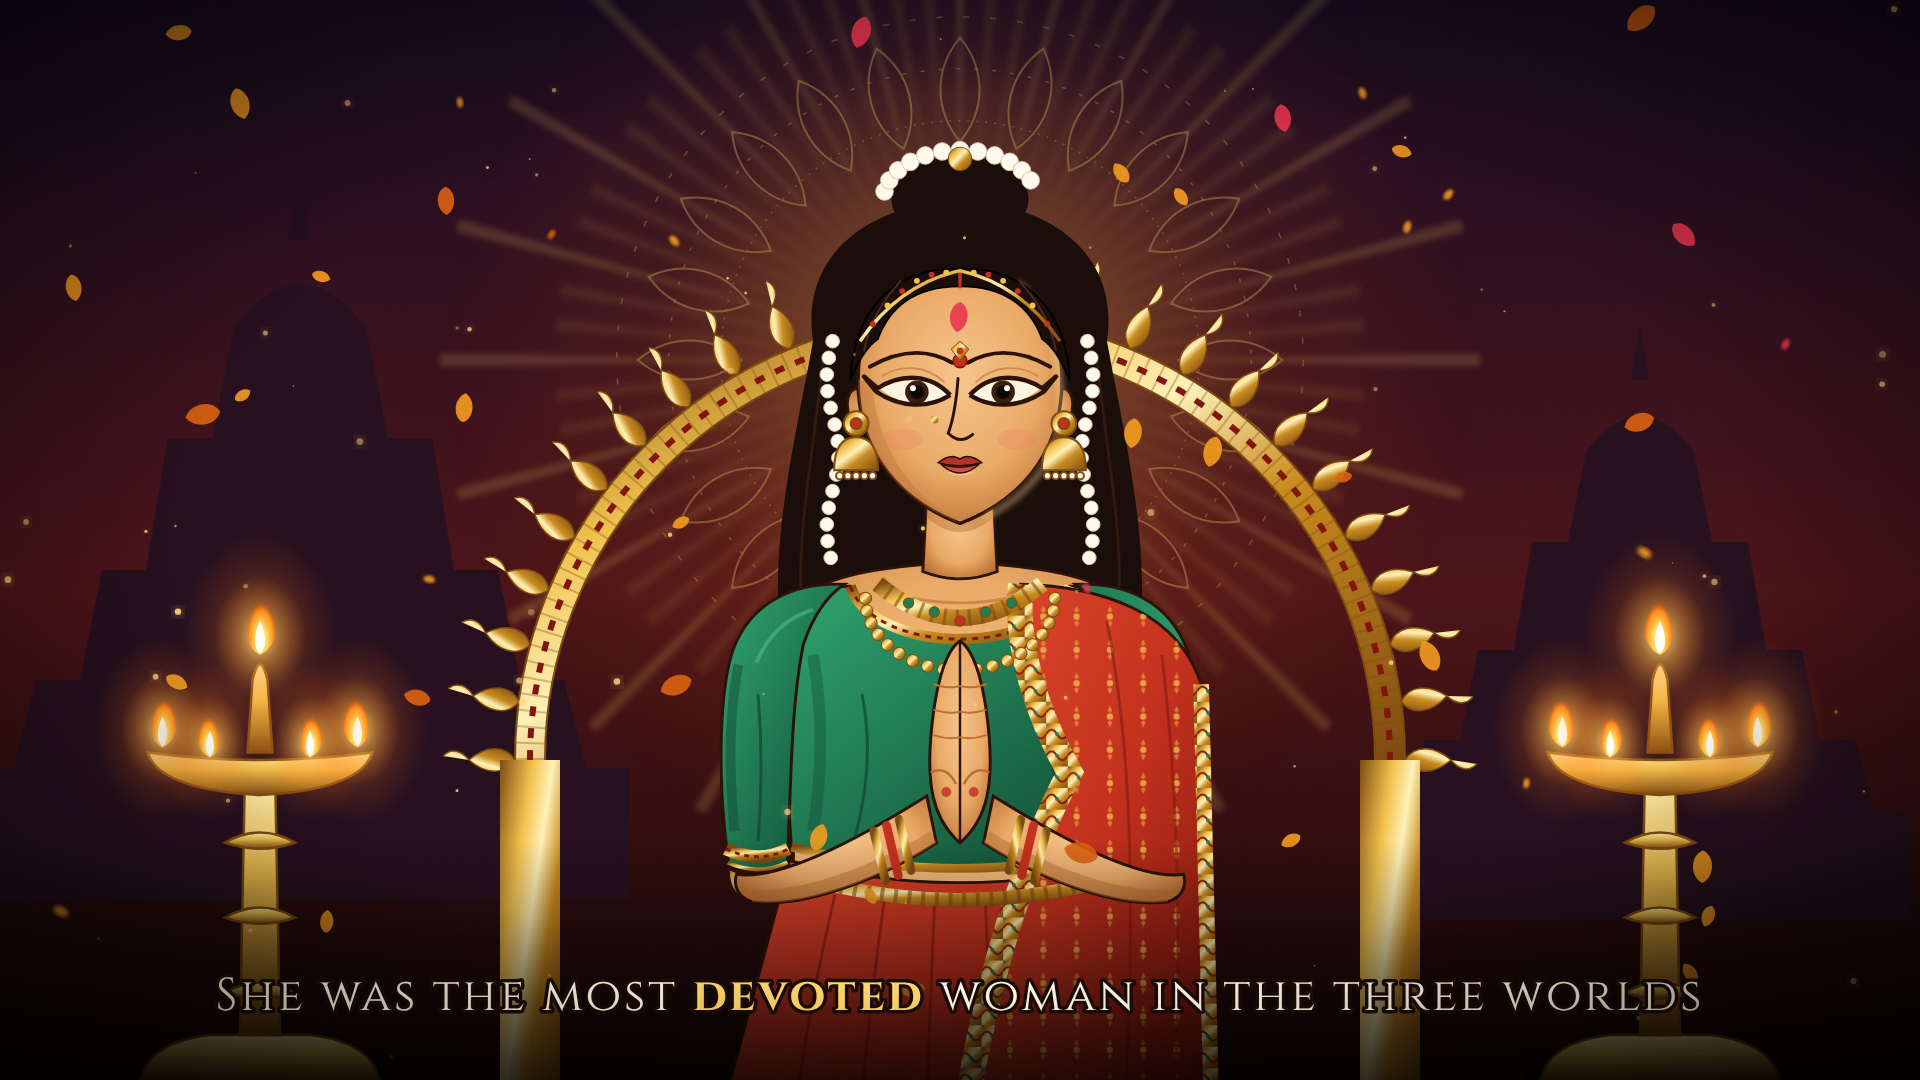
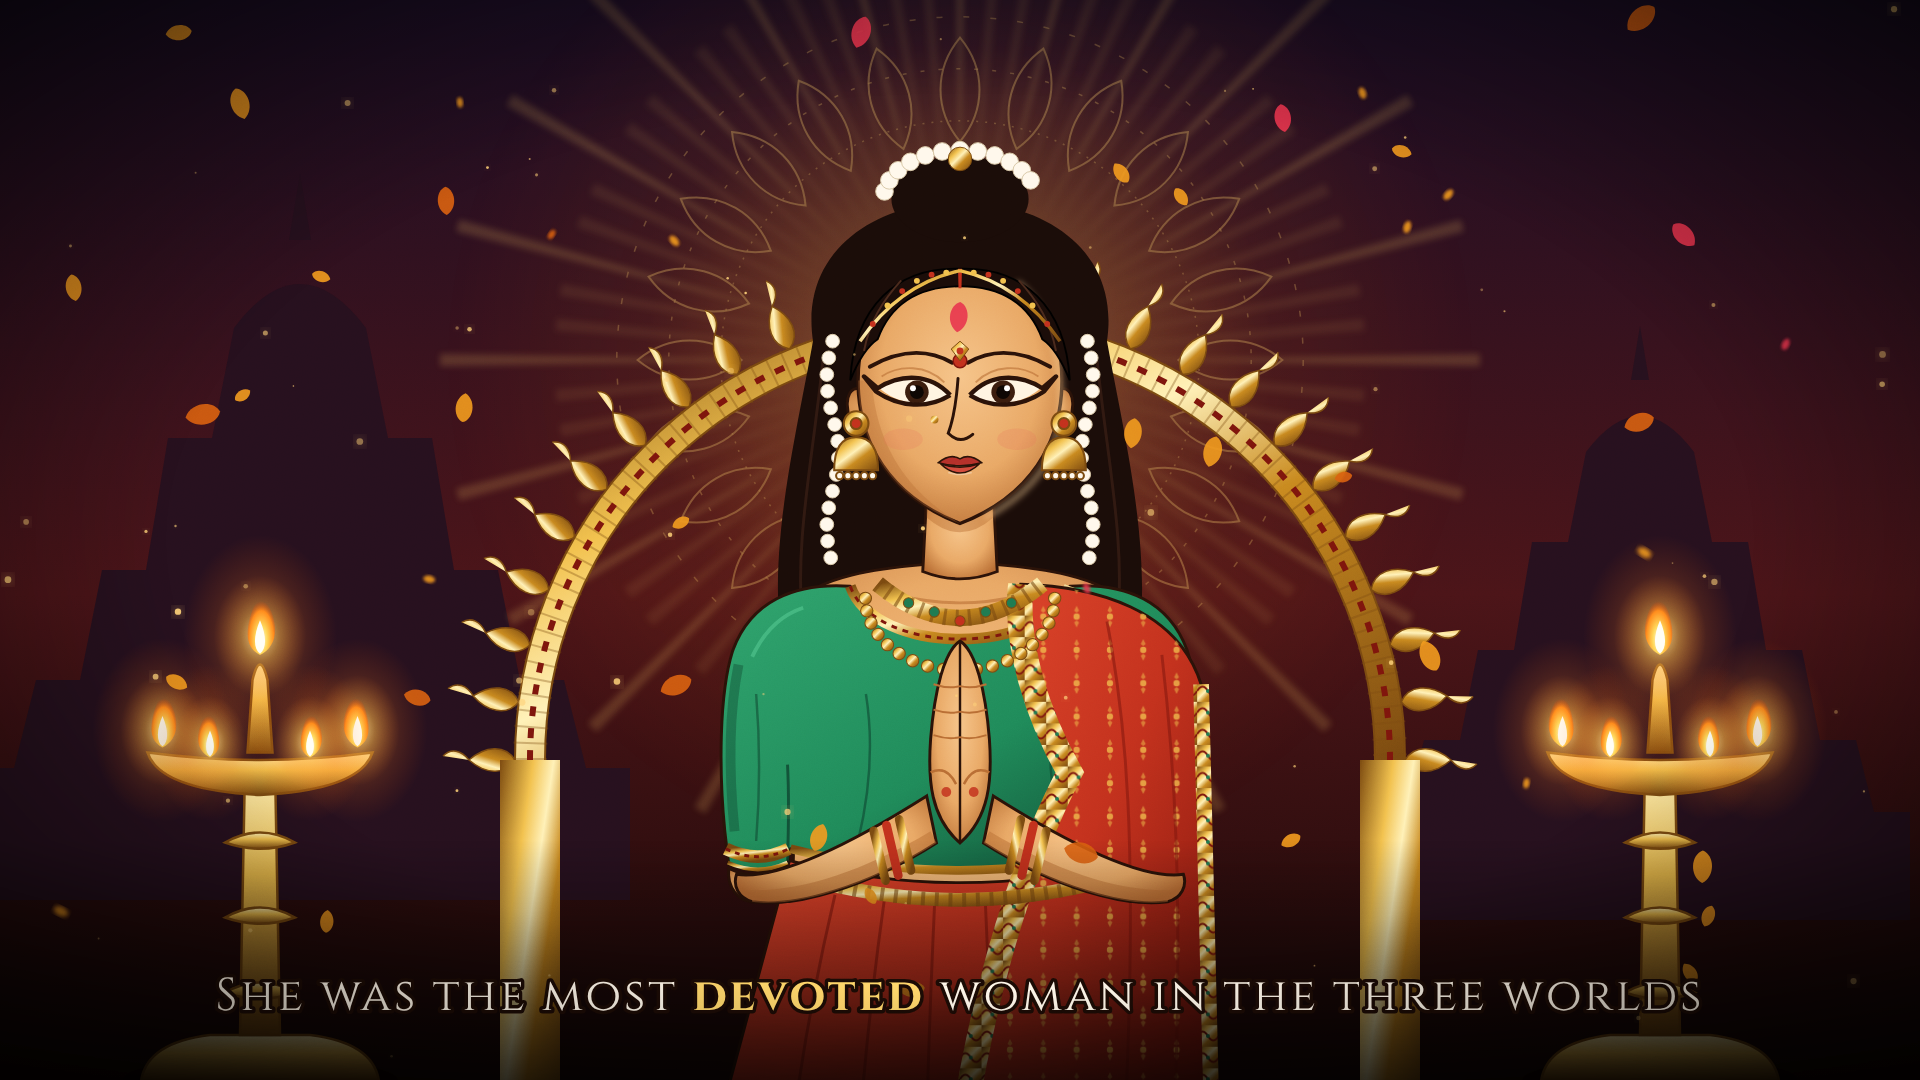
Tulasi: seamless one-piece blouse; Vishnu: smooth mural-style chest, narrower torso
Claude-Session: https://claude.ai/code/session_01X3ArEdZK7W9b78YVvUKCgo

Changed region(s): [[0.375, 0.5194, 0.4688, 0.7944], [0.4688, 0.6111, 0.5625, 0.7333], [0.4688, 0.7944, 0.5312, 0.825]]

diff --git a/devotional-studio/engine/art.js b/devotional-studio/engine/art.js
@@ -45,6 +45,9 @@ function defs() {
       <stop offset="0" stop-color="#e0462c"/><stop offset=".5" stop-color="${P.vermilion}"/>
       <stop offset="1" stop-color="${P.vermDark}"/>
     </linearGradient>
+    <linearGradient id="blouseGrad" x1="0" y1="0" x2="1" y2="1">
+      <stop offset="0" stop-color="#2fa36e"/><stop offset=".55" stop-color="#1f8a5a"/><stop offset="1" stop-color="${P.greenDark}"/>
+    </linearGradient>
     <linearGradient id="greenCloth" x1="0" y1="0" x2="1" y2="1">
       <stop offset="0" stop-color="#2fa36e"/><stop offset="1" stop-color="${P.greenDark}"/>
     </linearGradient>
@@ -293,32 +296,33 @@ function vrinda(x, y, s = 1, o = {}) {
   const f = face({ id: 'vr' + (o.id || ''), x: 0, y: 0, s: 1, skin: 'url(#skinWarm)', shade: P.skinWarmShade, eyeOpen: o.eyeOpen ?? .85, look: o.look || 0, extra: tilak });
   // Torso with natural shoulders (±172), waist and flared skirt.
   const torso = 'M-38 168 C -86 172 -140 180 -168 206 C -186 240 -184 330 -176 400 C -170 450 -168 470 -172 480 C -190 560 -214 630 -236 700 L 236 700 C 214 630 190 560 172 480 C 168 470 170 450 176 400 C 184 330 186 240 168 206 C 140 180 86 172 38 168Z';
-  // Elbow-length blouse sleeve (screen-left; mirrored for the other side).
-  const sleeve = (sx) => `<g transform="scale(${sx},1)">
-      <path d="M-118 188 C -170 186 -214 206 -232 256 C -246 300 -246 380 -240 440 L -236 474 Q -206 488 -176 474 L -174 420 C -172 360 -170 300 -160 250 C -150 220 -136 200 -118 188Z" fill="url(#greenCloth)" stroke="${P.ink}" stroke-width="3"/>
-      <path d="M-226 270 C -236 320 -236 380 -230 440" stroke="${P.greenDark}" stroke-width="10" fill="none" opacity=".45"/>
-      <path d="M-206 300 C -202 350 -202 400 -206 450" stroke="${P.greenDark}" stroke-width="3" fill="none" opacity=".7"/>
-      <path d="M-150 214 C -176 222 -196 240 -208 268" stroke="#4fc48e" stroke-width="4" fill="none" opacity=".5"/>
+  // One-piece blouse: body + elbow-length sleeves filled WITHOUT strokes, then a single outer outline,
+  // so there is no seam between sleeve and bodice.
+  const sleeveFill = (sx) => `<path transform="scale(${sx},1)" d="M-112 188 C -170 186 -214 206 -232 256 C -246 300 -246 380 -240 440 L -236 474 Q -206 488 -176 474 L -170 300 L -150 200Z" fill="url(#greenCloth)"/>`;
+  const blouseOutline = `M-112 190 C -170 186 -214 206 -232 256 C -246 300 -246 380 -240 440 L -236 474 Q -206 488 -176 474 L -173 458 Q 0 502 173 458 L 176 474 Q 206 488 236 474 L 240 440 C 246 380 246 300 232 256 C 214 206 170 186 112 190 C 86 262 -86 262 -112 190Z`;
+  const sleeveDetail = (sx) => `<g transform="scale(${sx},1)">
+      <path d="M-226 270 C -236 320 -236 380 -230 440" stroke="${P.greenDark}" stroke-width="10" fill="none" opacity=".4"/>
+      <path d="M-208 300 C -204 350 -204 400 -208 450" stroke="${P.greenDark}" stroke-width="2.5" fill="none" opacity=".55"/>
+      <path d="M-176 372 C -174 410 -175 440 -176 470" stroke="${P.greenDark}" stroke-width="3" fill="none" opacity=".8"/>
+      <path d="M-160 212 C -184 220 -200 236 -212 262" stroke="#5fd49e" stroke-width="4" fill="none" opacity=".45"/>
       <path d="M-239 458 Q -206 474 -175 458" stroke="url(#gold)" stroke-width="13" fill="none"/>
       <path d="M-239 458 Q -206 474 -175 458" stroke="${P.vermDark}" stroke-width="3" fill="none" stroke-dasharray="5 5"/>
       <path d="M-237 472 Q -206 486 -176 472" stroke="url(#gold)" stroke-width="4" fill="none"/>
-      <!-- elbow peeking below the sleeve -->
       <path d="M-236 478 Q -206 492 -176 478 C -176 500 -196 512 -210 512 C -226 512 -238 498 -236 478Z" fill="url(#skinWarm)" stroke="${P.ink}" stroke-width="3"/>
     </g>`;
   const body = `
     <path d="${torso}" fill="url(#skinWarm)" stroke="${P.ink}" stroke-width="3"/>
     <path d="M-60 200 Q 0 214 60 200" stroke="${P.skinWarmShade}" stroke-width="3" fill="none" opacity=".6"/>
-    <!-- blouse body: covers shoulders, sweetheart neckline -->
-    <path d="M-168 206 C -150 194 -130 190 -112 190 C -86 262 86 262 112 190 C 130 190 150 194 168 206 C 186 240 184 330 176 400 L 172 456 Q 0 500 -172 456 L -176 400 C -184 330 -186 240 -168 206Z" fill="url(#greenCloth)" stroke="${P.ink}" stroke-width="3"/>
+    <!-- blouse (single garment) -->
+    <path d="${blouseOutline}" fill="url(#blouseGrad)" stroke="${P.ink}" stroke-width="3" stroke-linejoin="round"/>
     <path d="M-112 190 C -86 262 86 262 112 190" fill="none" stroke="url(#gold)" stroke-width="11"/>
     <path d="M-112 190 C -86 262 86 262 112 190" fill="none" stroke="${P.vermDark}" stroke-width="3" stroke-dasharray="6 6"/>
-    <path d="M-172 456 Q 0 500 172 456" fill="none" stroke="url(#gold)" stroke-width="9"/>
-    <path d="M-100 300 C -90 350 -94 400 -108 450 M100 300 C 90 350 94 400 108 450" stroke="${P.greenDark}" stroke-width="3" fill="none" opacity=".7"/>
-    <path d="M-150 260 C -140 320 -140 380 -150 440" stroke="${P.greenDark}" stroke-width="12" fill="none" opacity=".35"/>
+    <path d="M-173 458 Q 0 502 173 458" fill="none" stroke="url(#gold)" stroke-width="9"/>
+    <path d="M-96 300 C -88 350 -92 400 -104 450 M96 300 C 88 350 92 400 104 450" stroke="${P.greenDark}" stroke-width="2.5" fill="none" opacity=".6"/>
     <!-- waist + skirt pleats -->
     <path d="M-174 470 Q 0 515 174 470 L 236 700 L -236 700Z" fill="url(#saree)" stroke="${P.ink}" stroke-width="3"/>
     ${[-150, -90, -30, 30, 90, 150].map(px => `<path d="M${px * .85} ${505} Q ${px} 600 ${px * 1.1} 700" stroke="${P.vermDark}" stroke-width="3" fill="none" opacity=".6"/>`).join('')}
-    ${sleeve(1)}${sleeve(-1)}
+    ${sleeveDetail(1)}${sleeveDetail(-1)}
     <!-- pallu over left shoulder (screen right), covering that sleeve -->
     <path d="M62 188 C 140 190 222 214 246 290 L 256 700 L 10 700 C 30 590 60 480 112 380 C 78 320 56 250 62 188Z" fill="url(#saree)" stroke="${P.ink}" stroke-width="3"/>
     <path d="M62 188 C 140 190 222 214 246 290 L 256 700 L 10 700 C 30 590 60 480 112 380 C 78 320 56 250 62 188Z" fill="url(#sareeMotif)"/>
@@ -469,10 +473,10 @@ function vishnu(x, y, s = 1, o = {}) {
 
   // Joints (screen coords, local units). Shoulders at ±188, y 236.
   const J = {
-    bR: { sh: [-170, 226], el: [-286, 178], wr: [-322, 62] },  // back right (chakra)
-    bL: { sh: [170, 226], el: [286, 178], wr: [322, 62] },     // back left (shankha)
-    fR: { sh: [-180, 246], el: [-236, 444], wr: [-300, 338] }, // front right (abhaya: forearm raised, angled out)
-    fL: { sh: [180, 246], el: [232, 440], wr: [270, 548] },    // front left (varada: forearm lowered, palm out)
+    bR: { sh: [-150, 222], el: [-272, 176], wr: [-310, 62] },  // back right (chakra)
+    bL: { sh: [150, 222], el: [272, 176], wr: [310, 62] },     // back left (shankha)
+    fR: { sh: [-164, 242], el: [-218, 440], wr: [-284, 336] }, // front right (abhaya: forearm raised, angled out)
+    fL: { sh: [164, 242], el: [214, 436], wr: [252, 544] },    // front left (varada: forearm lowered, palm out)
   };
   const backArm = (j, sx) => `
     ${arm(j.sh, j.el, j.wr, SK, SH, [64, 62, 46, 46, 36])}
@@ -492,7 +496,7 @@ function vishnu(x, y, s = 1, o = {}) {
     <path d="M30 -16 Q 50 -34 40 -58" stroke="url(#gold)" stroke-width="8" fill="none"/>
     <path d="M-16 50 Q 0 74 16 50" fill="url(#gold)" stroke="${P.gold4}"/></g>`;
   // Torso: broad shoulders, chest tapering to a narrow waist (classic lion-chest, slim-waist ideal).
-  const torso = 'M-40 170 C -100 174 -160 186 -192 214 C -214 240 -210 300 -190 350 C -170 400 -146 450 -136 520 L -132 600 L 132 600 L 136 520 C 146 450 170 400 190 350 C 210 300 214 240 192 214 C 160 186 100 174 40 170Z';
+  const torso = 'M-40 170 C -94 174 -146 182 -170 204 C -188 230 -186 288 -174 336 C -160 388 -138 440 -128 520 L -126 600 L 126 600 L 128 520 C 138 440 160 388 174 336 C 186 288 188 230 170 204 C 146 182 94 174 40 170Z';
 
   return `<g transform="translate(${x},${y}) scale(${s})">
     <path d="M-150 -40 C -168 60 -176 150 -168 236 L 168 236 C 176 150 168 60 150 -40Z" fill="#120a1a"/>
@@ -505,16 +509,15 @@ function vishnu(x, y, s = 1, o = {}) {
     <g transform="translate(${J.bL.wr[0]},${J.bL.wr[1]})">${holdingHand(SK, SH, 1, false)}</g>
     <!-- torso -->
     <path d="${torso}" fill="${SK}" stroke="${P.ink}" stroke-width="3"/>
-    <path d="M-192 214 C -214 240 -210 300 -190 350 C -170 400 -146 450 -136 520 C -150 450 -176 380 -184 320 C -190 280 -190 240 -180 222Z" fill="${SH}" opacity=".5"/>
-    <path d="M-150 290 Q -80 336 -8 306 M150 290 Q 80 336 8 306" stroke="${SH}" stroke-width="4" fill="none" stroke-linecap="round"/>
-    <path d="M-120 300 Q -80 320 -40 312" stroke="#9cc0ff" stroke-width="3" fill="none" opacity=".35"/>
-    <path d="M0 330 L 0 500" stroke="${SH}" stroke-width="2.5" opacity=".55"/>
-    <path d="M-70 400 Q 0 414 70 400 M-60 448 Q 0 460 60 448" stroke="${SH}" stroke-width="2.5" fill="none" opacity=".5"/>
-    <path d="M0 482 Q 7 494 0 506" stroke="${SH}" stroke-width="4" fill="none"/>
-    <path d="M-60 210 Q 0 222 60 210" stroke="${SH}" stroke-width="3" fill="none" opacity=".6"/>
+    <path d="M-170 204 C -188 230 -186 288 -174 336 C -160 388 -138 440 -128 520 C -142 450 -160 390 -166 330 C -170 290 -170 240 -160 216Z" fill="${SH}" opacity=".45"/>
+    <path d="M-110 316 Q -66 334 -22 320 M110 316 Q 66 334 22 320" stroke="${SH}" stroke-width="2.5" fill="none" stroke-linecap="round" opacity=".55"/>
+    <ellipse cx="-70" cy="270" rx="46" ry="30" fill="#9cc0ff" opacity=".18"/>
+    <ellipse cx="70" cy="270" rx="46" ry="30" fill="#9cc0ff" opacity=".12"/>
+    <path d="M0 470 Q 6 480 0 490" stroke="${SH}" stroke-width="3.5" fill="none" stroke-linecap="round"/>
+    <path d="M-60 210 Q 0 222 60 210" stroke="${SH}" stroke-width="3" fill="none" opacity=".5"/>
     <!-- sacred thread from his left shoulder to right hip -->
-    <path d="M150 200 C 80 300 -20 420 -110 590" stroke="#fff6e0" stroke-width="5" fill="none"/>
-    <path d="M150 200 C 80 300 -20 420 -110 590" stroke="#d8c8a8" stroke-width="5" fill="none" stroke-dasharray="2 10"/>
+    <path d="M136 200 C 70 300 -20 420 -104 590" stroke="#fff6e0" stroke-width="5" fill="none"/>
+    <path d="M136 200 C 70 300 -20 420 -104 590" stroke="#d8c8a8" stroke-width="5" fill="none" stroke-dasharray="2 10"/>
     <!-- pitambara + waist belt -->
     <path d="M-136 540 Q 0 566 136 540 L 150 700 L -150 700Z" fill="url(#pitambara)" stroke="${P.ink}" stroke-width="3"/>
     ${[-90, -30, 30, 90].map(px => `<path d="M${px} 560 Q ${px * 1.05} 630 ${px * 1.12} 700" stroke="#a8640a" stroke-width="3" fill="none" opacity=".6"/>`).join('')}
@@ -522,8 +525,8 @@ function vishnu(x, y, s = 1, o = {}) {
     <path d="M0 548 l 18 20 -18 26 -18 -26z" fill="url(#gold)" stroke="${P.gold4}" stroke-width="2"/><circle cx="0" cy="572" r="7" fill="${P.vermilion}"/>
     ${necklaces(0, 192, 1.15, 1.0)}
     <!-- vanamala: forest garland -->
-    <path d="M-150 206 C -150 380 -80 540 0 610 C 80 540 150 380 150 206" fill="none" stroke="${P.green}" stroke-width="16" stroke-dasharray="14 6"/>
-    <path d="M-150 206 C -150 380 -80 540 0 610 C 80 540 150 380 150 206" fill="none" stroke="#f0d26a" stroke-width="5" stroke-dasharray="4 16"/>
+    <path d="M-136 204 C -136 380 -74 540 0 610 C 74 540 136 380 136 204" fill="none" stroke="${P.green}" stroke-width="16" stroke-dasharray="14 6"/>
+    <path d="M-136 204 C -136 380 -74 540 0 610 C 74 540 136 380 136 204" fill="none" stroke="#f0d26a" stroke-width="5" stroke-dasharray="4 16"/>
     <!-- front arms -->
     ${arm(J.fR.sh, J.fR.el, J.fR.wr, SK, SH)}
     ${bandOn(J.fR.sh, J.fR.el, .3, 72)}

diff --git a/devotional-studio/style-frames/frames.js b/devotional-studio/style-frames/frames.js
@@ -40,7 +40,7 @@ function frameVishnu() {
     <ellipse cx="960" cy="420" rx="760" ry="620" fill="url(#blueGlow)" opacity=".7"/>
     ${A.mandalaGlow(960, 330, 560, '#bcd6ff', .45)}
     ${A.prabhavali(960, 860, 570, { flames: 29, thick: 30, pillar: 300 })}
-    ${A.vishnu(960, 456, .8)}
+    ${A.vishnu(960, 420, .8)}
     ${A.petals(31, 26, W, H, { op: .8 })}
     ${A.captionBand(W, H)}
     ${caption(W, 1010, [['But the one who came to her door… was ', 0], ['Vishnu', 1]])}
